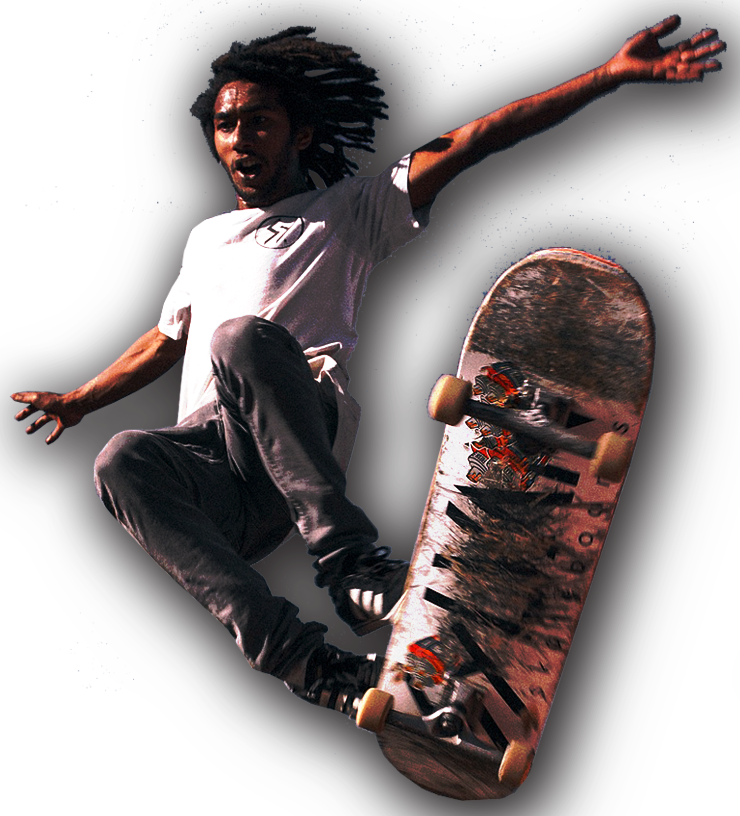
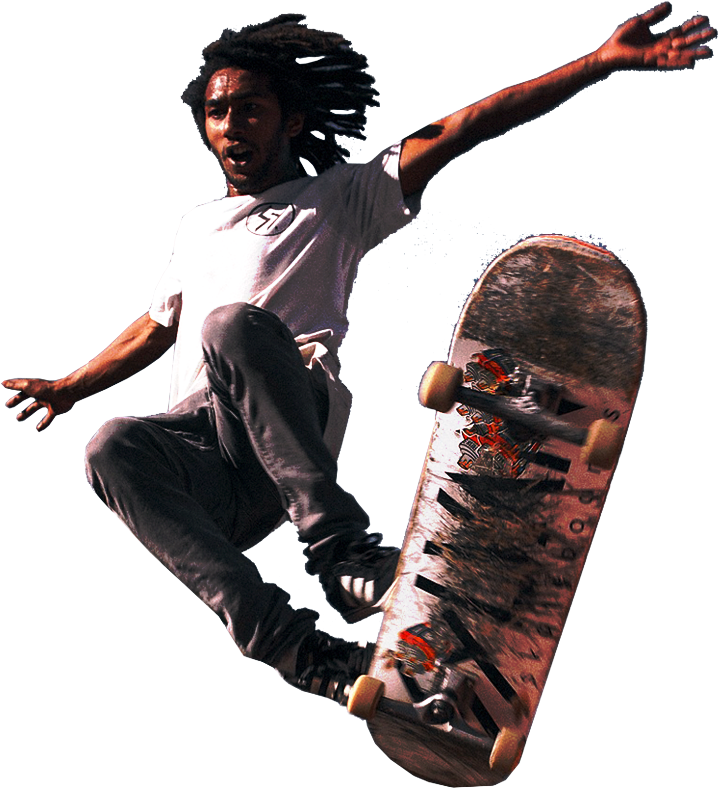
добавлен элемент фона блоку b-whoWeAre

diff --git a/styles/css/style.css b/styles/css/style.css
@@ -380,8 +380,8 @@ li {
   right: 1%;
   z-index: 5;
   width: 730px;
-  -webkit-filter: drop-shadow(8px 11px 62px #231f20cf);
-          filter: drop-shadow(8px 11px 62px #231f20cf);
+  -webkit-filter: drop-shadow(8px 11px 62px #1a1919e0);
+          filter: drop-shadow(8px 11px 62px #1a1919e0);
 }
 
 @media (max-width: 1439px) {
@@ -428,7 +428,9 @@ li {
 }
 
 .b-whoWeAre {
-  padding: 98px 0 90px 0;
+  position: relative;
+  overflow: hidden;
+  padding: 98px 0 86px 0;
   min-height: 576px;
 }
 
@@ -455,5 +457,30 @@ li {
   background-color: #bc2e3a;
   color: #fff;
   margin-bottom: 28px;
+}
+
+.b-whoWeAre_linkDecor:hover {
+  color: #b3b3b3;
+}
+
+.b-whoWeAre::after {
+  content: "";
+  display: block;
+  width: 0;
+  height: 0;
+  border: 660px solid transparent;
+  border-top-color: #171717;
+  position: absolute;
+  top: 0;
+  right: -140px;
+  z-index: -3;
+}
+
+.b-whatWeDo {
+  height: 745px;
+}
+
+.b-whatWeDo_decor {
+  background-color: #f5f5f5;
 }
 /*# sourceMappingURL=style.css.map */

diff --git a/styles/scss/bem/_whoWeAre.scss b/styles/scss/bem/_whoWeAre.scss
@@ -1,5 +1,7 @@
 .b-whoWeAre {
-  padding: 98px 0 90px 0;
+  position: relative;
+  overflow: hidden;
+  padding: 98px 0 86px 0;
   min-height: 576px;
   &_disposition {
     @extend %flexSpaceBetween;
@@ -13,8 +15,6 @@
       align-items: flex-start;
     }
   }
-  &__title {
-  }
   &__text {
     &_padding {
       padding-left: 16px;
@@ -25,7 +25,23 @@
     color: $colorWhite;
     margin-bottom: 28px;
   }
+  &_linkDecor:hover {
+    color: darken($colorWhite, 30%);
+  }
   &__image {
     @extend %imgObject;
   }
+}
+
+.b-whoWeAre::after {
+  content: "";
+  display: block;
+  width: 0;
+  height: 0;
+  border: 660px solid transparent;
+  border-top-color: $colorBackDelta;
+  position: absolute;
+  top: 0;
+  right: -140px;
+  z-index: -3;
 }

diff --git a/styles/scss/_variables.scss b/styles/scss/_variables.scss
@@ -41,6 +41,7 @@ $backBurgerMenu: rgba(71, 70, 70, 0.685);
 $colorlinkHover: #979696;
 $colorSectionTitle :#494949;
 $colorSectionText: #6a6a6a;
+$colorBackDelta: #171717;
 $fontLogotype: "lato-black", sans-serif;
 $fontMainNav: "lato-bold", sans-serif;
 $fontHeaderTitle: "lemonmilk", sans-serif;

diff --git a/styles/scss/bem/_header.scss b/styles/scss/bem/_header.scss
@@ -178,7 +178,7 @@
     z-index: 5;
     width: 730px;
     @extend %imgObject;
-    filter: drop-shadow(8px 11px 62px #231f20cf);
+    filter: drop-shadow(8px 11px 62px #1a1919e0);
     @media (max-width: 1439px) {
       width: 50%;
     }

diff --git a/index.html b/index.html
@@ -138,6 +138,7 @@
         />
       </div>
     </section>
+   
 
     <!-- Optional JavaScript; choose one of the two! -->
     <!-- Option 2: Separate Popper and Bootstrap JS -->

diff --git a/styles/scss/style.scss b/styles/scss/style.scss
@@ -4,3 +4,4 @@
 @import "bootstrap";
 @import "bem/header";
 @import "bem/whoWeAre";
+@import "bem/whatWeDo";
